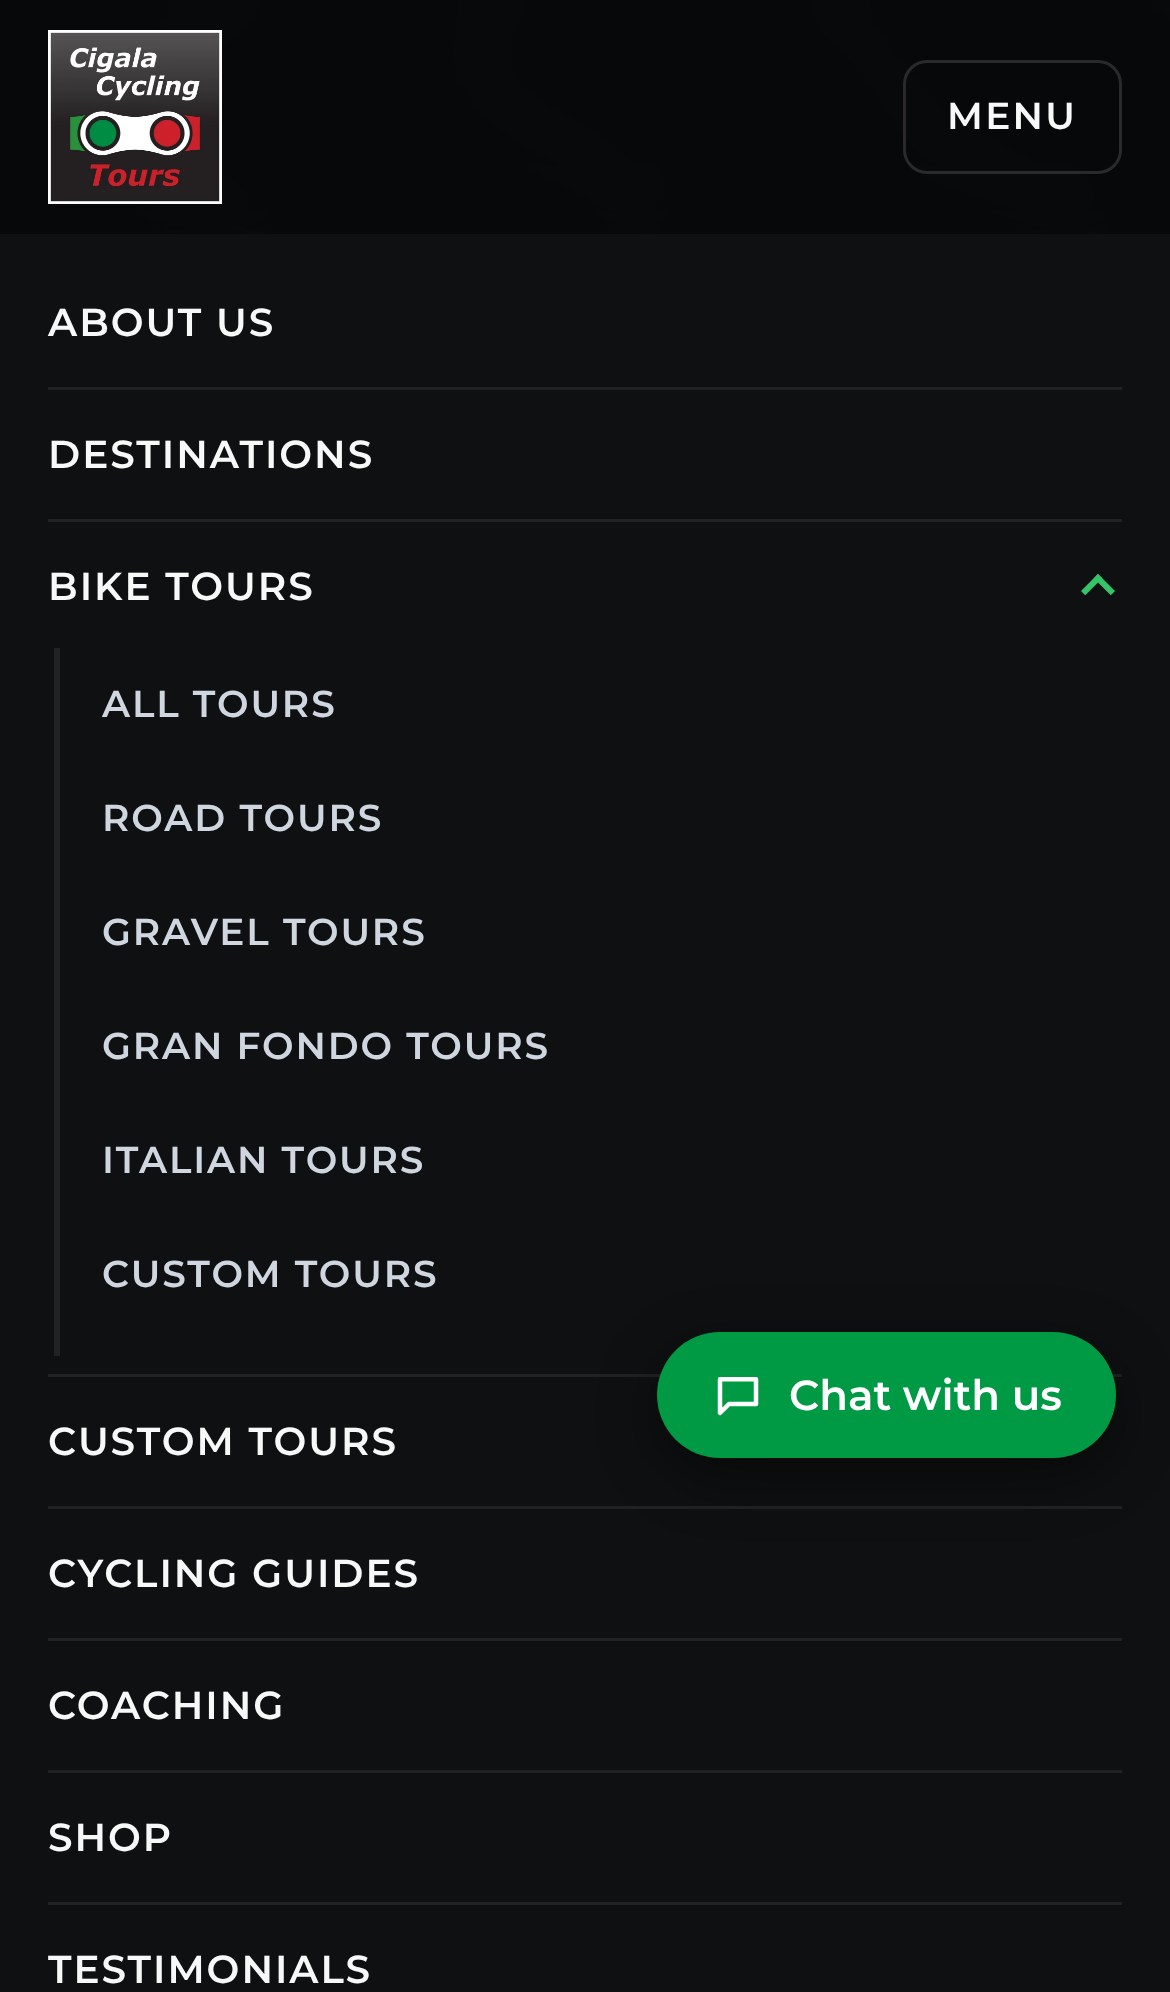
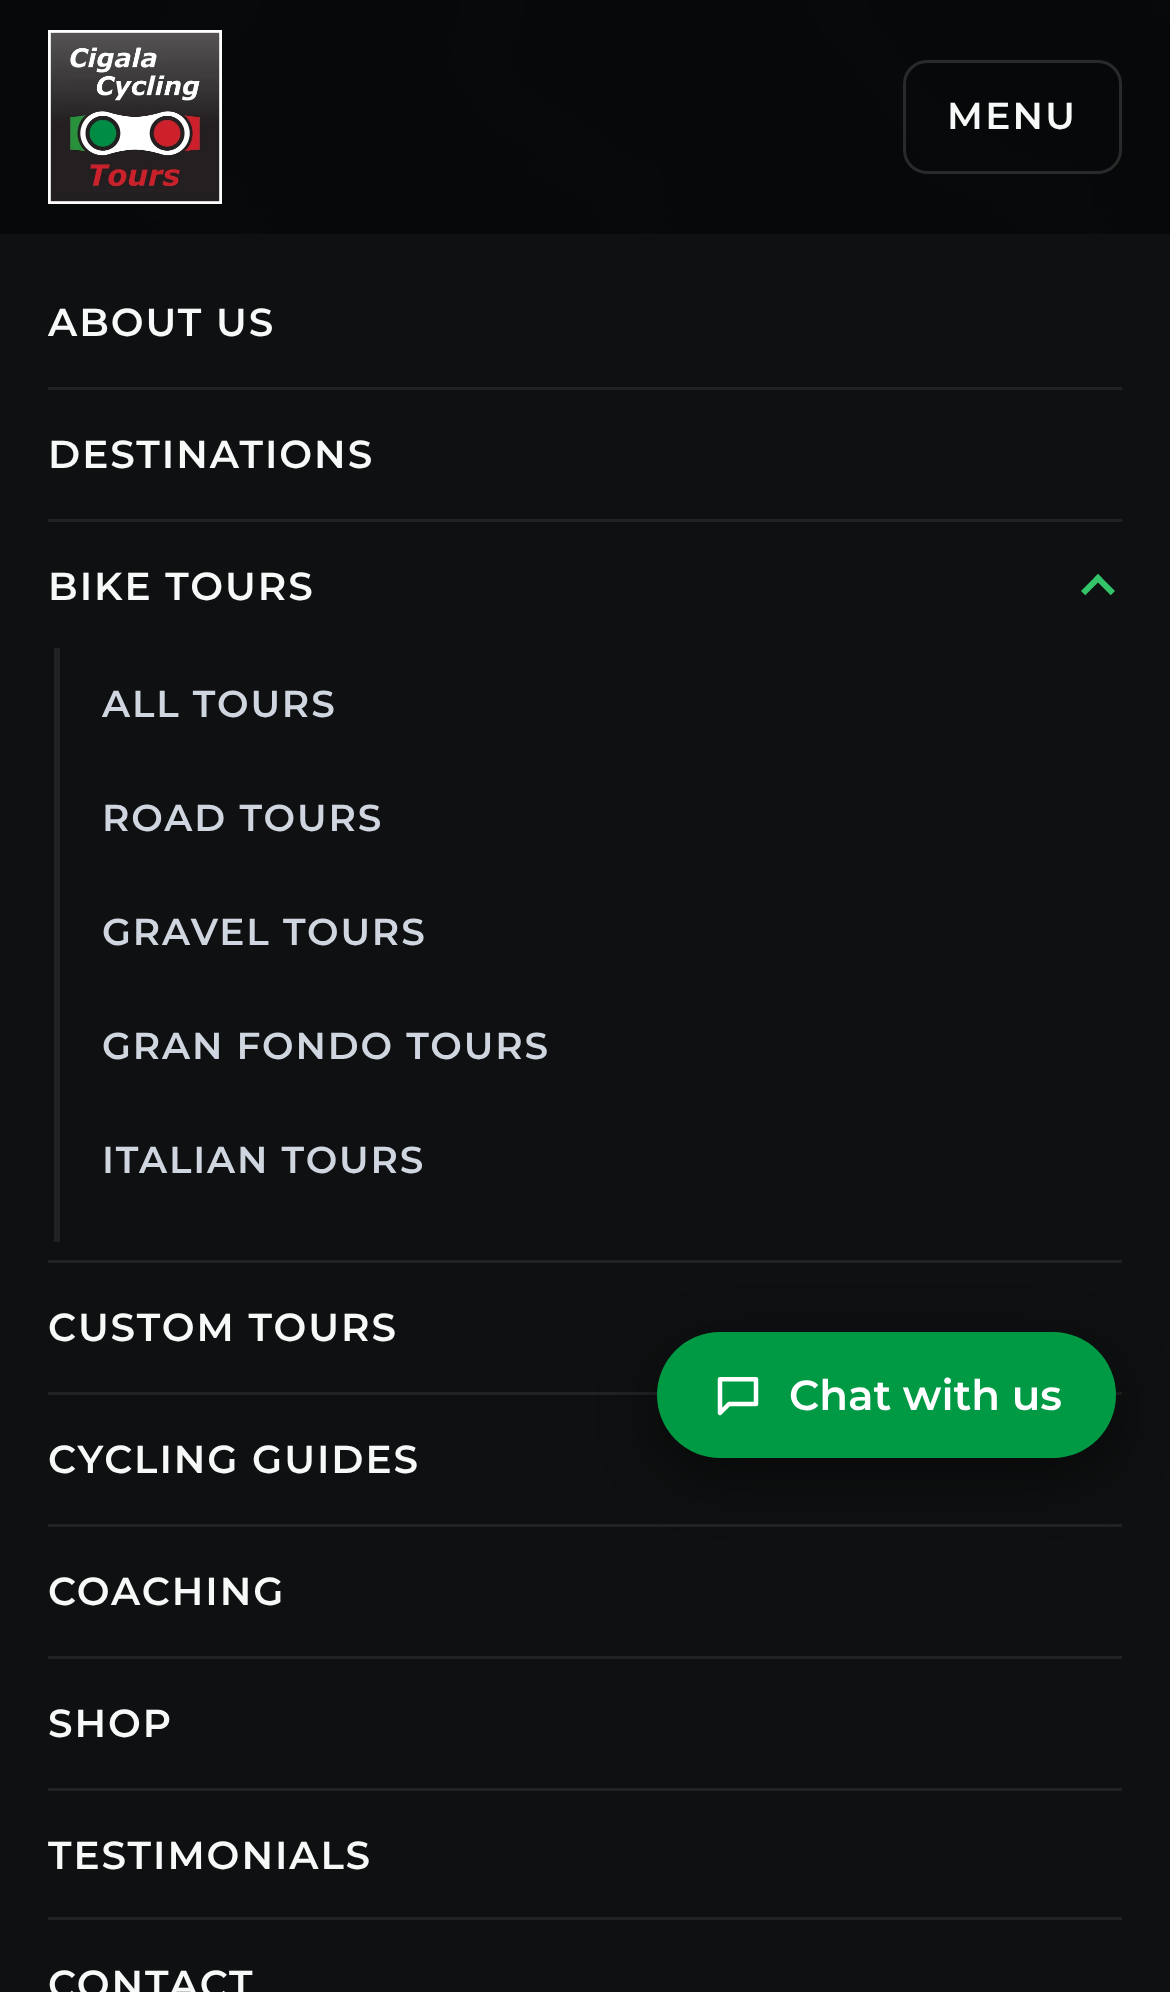
Tours staging: Custom tours only as its own menu item, not inside the Bike tours sub-menu
Claude-Session: https://claude.ai/code/session_01APBtfXnQsYewVL6VNBNurW

diff --git a/tourspages/home.html b/tourspages/home.html
@@ -320,8 +320,7 @@ section.matteo .in .photo { aspect-ratio: auto !important; overflow: visible; bo
         <a href="https://tours.cigalacycling.com/trips/road-trips/" target="_blank" rel="noopener">Road tours</a>
         <a href="https://tours.cigalacycling.com/trips/gravel-trips/" target="_blank" rel="noopener">Gravel tours</a>
         <a href="https://tours.cigalacycling.com/trips/granfondo-trips/" target="_blank" rel="noopener">Gran Fondo tours</a>
-        <a href="https://tours.cigalacycling.com/italian-trips/" target="_blank" rel="noopener">Italian tours</a>
-        <a href="https://tours.cigalacycling.com/trips/private-trips/" target="_blank" rel="noopener">Custom tours</a></div></div>
+        <a href="https://tours.cigalacycling.com/italian-trips/" target="_blank" rel="noopener">Italian tours</a></div></div>
       <a href="https://tours.cigalacycling.com/trips/private-trips/" target="_blank" rel="noopener">Custom tours</a>
       <a href="https://tours.cigalacycling.com/guides/" target="_blank" rel="noopener">Guides</a>
       <a href="https://coaching.cigalacycling.com/" target="_blank" rel="noopener">Coaching</a>
@@ -341,7 +340,6 @@ section.matteo .in .photo { aspect-ratio: auto !important; overflow: visible; bo
         <a href="https://tours.cigalacycling.com/trips/gravel-trips/" target="_blank" rel="noopener">Gravel tours</a>
         <a href="https://tours.cigalacycling.com/trips/granfondo-trips/" target="_blank" rel="noopener">Gran Fondo tours</a>
         <a href="https://tours.cigalacycling.com/italian-trips/" target="_blank" rel="noopener">Italian tours</a>
-        <a href="https://tours.cigalacycling.com/trips/private-trips/" target="_blank" rel="noopener">Custom tours</a>
           </div></details>
         <a href="https://tours.cigalacycling.com/trips/private-trips/" target="_blank" rel="noopener">Custom tours</a>
         <a href="https://tours.cigalacycling.com/guides/" target="_blank" rel="noopener">Cycling guides</a>

diff --git a/tourspages/road-trips.html b/tourspages/road-trips.html
@@ -713,8 +713,7 @@ html .cc .tour:hover img { transform: none; }
         <a href="https://tours.cigalacycling.com/trips/road-trips/" target="_blank" rel="noopener" aria-current="page">Road tours</a>
         <a href="https://tours.cigalacycling.com/trips/gravel-trips/" target="_blank" rel="noopener">Gravel tours</a>
         <a href="https://tours.cigalacycling.com/trips/granfondo-trips/" target="_blank" rel="noopener">Gran Fondo tours</a>
-        <a href="https://tours.cigalacycling.com/italian-trips/" target="_blank" rel="noopener">Italian tours</a>
-        <a href="https://tours.cigalacycling.com/trips/private-trips/" target="_blank" rel="noopener">Custom tours</a></div></div>
+        <a href="https://tours.cigalacycling.com/italian-trips/" target="_blank" rel="noopener">Italian tours</a></div></div>
       <a href="https://tours.cigalacycling.com/trips/private-trips/" target="_blank" rel="noopener">Custom tours</a>
       <a href="https://tours.cigalacycling.com/guides/" target="_blank" rel="noopener">Guides</a>
       <a href="https://coaching.cigalacycling.com/" target="_blank" rel="noopener">Coaching</a>
@@ -734,7 +733,6 @@ html .cc .tour:hover img { transform: none; }
         <a href="https://tours.cigalacycling.com/trips/gravel-trips/" target="_blank" rel="noopener">Gravel tours</a>
         <a href="https://tours.cigalacycling.com/trips/granfondo-trips/" target="_blank" rel="noopener">Gran Fondo tours</a>
         <a href="https://tours.cigalacycling.com/italian-trips/" target="_blank" rel="noopener">Italian tours</a>
-        <a href="https://tours.cigalacycling.com/trips/private-trips/" target="_blank" rel="noopener">Custom tours</a>
           </div></details>
         <a href="https://tours.cigalacycling.com/trips/private-trips/" target="_blank" rel="noopener">Custom tours</a>
         <a href="https://tours.cigalacycling.com/guides/" target="_blank" rel="noopener">Cycling guides</a>

diff --git a/tools/build_tours_home.py b/tools/build_tours_home.py
@@ -88,7 +88,8 @@ MENU_TOURS = [   # order from Matteo (15 Nov): all, road, gravel, gran fondo, it
     ('Italian tours', '/italian-trips/'),
     ('Custom tours', '/trips/private-trips/'),
 ]
-dd = ''.join(f'<a href="{L}{u}" {EXT}>{t}</a>' for t, u in MENU_TOURS)
+MENU_SUB = [m for m in MENU_TOURS if m[0] != 'Custom tours']   # Custom tours is its own menu item (Matteo, 15 Nov)
+dd = ''.join(f'<a href="{L}{u}" {EXT}>{t}</a>' for t, u in MENU_SUB)
 s = s.replace(f'<a href="{L}/trips/" {EXT}>Bike tours</a>',
               f'<div class="dd"><button type="button" class="dd-btn" aria-expanded="false" aria-haspopup="true">Bike tours <span aria-hidden="true">▾</span></button><div class="dd-menu">{dd}</div></div>')
 s = s.replace(f'<a href="{L}/trips/gravel-trips/" {EXT}>Gravel tours</a>\n        <a href="{L}/trips/private-trips/" {EXT}>Custom tours</a>',
@@ -292,7 +293,7 @@ s = re.sub(r'<ul class="creds">.*?</ul>', '<ul class="creds">\n        <li>Europ
 rep('<p class="sig">Matteo Cigala<span>Tours Director</span></p>', '<img class="signature" src="img/cigala-tours-signature.webp" alt="Matteo Cigala\'s signature" width="924" height="251" loading="lazy">\n      <p class="sig">Matteo Cigala<span>Tours Director</span></p>')  # letter style: signature, then typed name
 # phone menu: same order as the desktop menu, with Bike tours as a sub-menu (Matteo, 15 Nov)
 m = re.search(r'(<nav aria-label="Main \(mobile\)">)(.*?)(\n      </nav>)', s, re.S)
-sub = ''.join(f'\n            <a href="{L}{u}" {EXT}>{t}</a>' for t, u in MENU_TOURS)
+sub = ''.join(f'\n            <a href="{L}{u}" {EXT}>{t}</a>' for t, u in MENU_SUB)
 mob_items = [('About us', L + '/about/'), ('Destinations', L + '/destinations/'), None,
              ('Custom tours', L + '/trips/private-trips/'), ('Cycling guides', L + '/guides/'),
              ('Coaching', 'https://coaching.cigalacycling.com/'), ('Shop', 'https://retail.cigalacycling.com/'),
@@ -369,7 +370,7 @@ section.matteo .in .photo { aspect-ratio: auto !important; overflow: visible; bo
 s = s.replace('@media (max-width: 1080px)', CSS2 + '\n@media (max-width: 1080px)', 1)
 
 # same tour order in the phone menu and the footer
-mob = '\n        '.join(f'<a href="{L}{u}" {EXT}>{t}</a>' for t, u in MENU_TOURS)
+mob = '\n        '.join(f'<a href="{L}{u}" {EXT}>{t}</a>' for t, u in MENU_SUB)
 s = re.sub(r'<a href="' + re.escape(L) + r'/trips/" ' + re.escape(EXT) + r'>All tours</a>(?:\s*<a href="[^"]+" ' + re.escape(EXT) + r'>(?:Gran Fondo|Italian|Gravel|Road|Custom) tours</a>)+', mob, s)  # desktop dropdown and phone menu
 foot = '\n        '.join(f'<li><a href="{L}{u}" {EXT}>{t}</a></li>' for t, u in MENU_TOURS)
 s, n = re.subn(r'<li><a href="' + re.escape(L) + r'/trips/" ' + re.escape(EXT) + r'>All tours</a></li>(?:\s*<li><a href="[^"]+" ' + re.escape(EXT) + r'>(?:Gran Fondo|Italian|Gravel|Road|Custom) tours</a></li>)+', foot, s, count=1)
